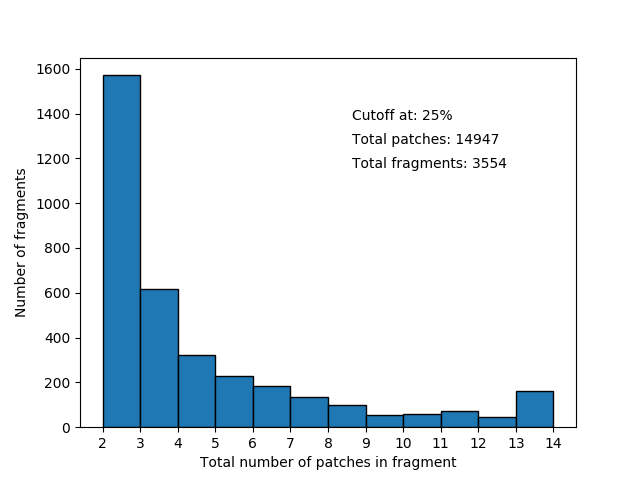
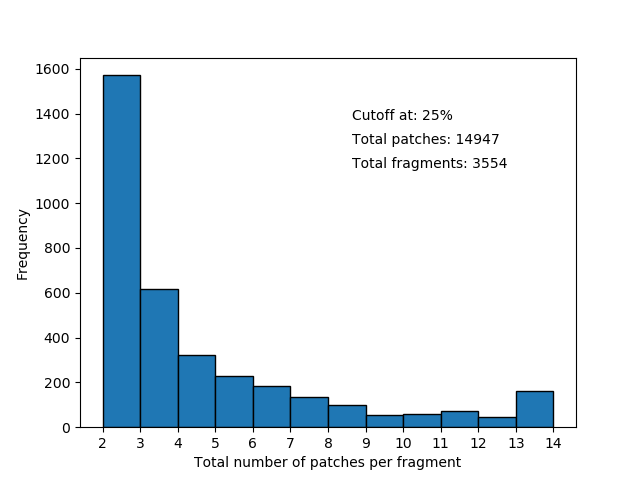
NN updated

diff --git a/Siamese_VGG16/model.py b/Siamese_VGG16/model.py
@@ -1,4 +1,4 @@
-# Building the Siamese model 
+# Building a Siamese model 
 
 from VGG16 import *
 from utils import * 
@@ -8,24 +8,30 @@ from tensorflow.keras.layers import Input
 from tensorflow.keras.layers import Lambda
 from tensorflow.keras.datasets import mnist
 
-def build_Siamese_network():
-	# configure the Sister networks
-	imgA = Input(shape= inputShape)
-	imgB = Input(shape= inputShape)
-	featureExtractor = build_VGG16_network(inputShape)
-	featsA = featureExtractor(imgA)
-	featsB = featureExtractor(imgB) 
+# Function that connects two CNNS via a ECL layer
+# which is connected to a block of dense layers 
+def build_Siamese_network(inputShape = 256):
+
+	# Configuring the inputshape of the model 
+	imgTop = Input(shape = inputShape)
+	imgBottom = Input(shape = inputShape)
+
+	# Functions returns a VGG16 model
+	CNNTop = build_VGG16_network(imgTop)
+	CNNBottom = build_VGG16_network(imgBottom) 
 
 	# Connecting the Sister networks to lambda euclidian distance layer 
-	distance = Lambda(euclidean_distance)([featsA, featsB])
+	distance = Lambda(euclidean_distance)([CNNTop, CNNBottom])
 
 	# Creating the final dense layers 
-	x = Dense(512, activation="relu")(distance)
-	x = Dense(512, activation="relu")(x)
-	outputs = Dense(1, activation="sigmoid")(x)
+	x = Dense(512, activation="relu", name = 'block6_dense1')(distance)
+	x = Dense(512, activation="relu", name = 'block6_dense2')(x)
+	outputs = Dense(1, activation="sigmoid", name = 'block6_dense3')(x)
 
 	# building the complete model 
-	model = Model(inputs=[imgA, imgB], outputs=outputs)	
+	model = Model(inputs=[CNNTop, CNNBottom], outputs=outputs)	
 
 	# Summary of the complete model 
 	model.Summary()
+
+build_VGG16_network()

diff --git a/Statistics/Histograms_and_plots_cutoffs/Statistic.py b/Statistics/Histograms_and_plots_cutoffs/Statistic.py
@@ -83,8 +83,8 @@ class statistic(object):
         axs.set_xticks(bins)
 
         # Setting the labels for the axis 
-        axs.set_xlabel('Total number of patches in fragment')
-        axs.set_ylabel('Number of fragments')
+        axs.set_xlabel('Total number of patches per fragment')
+        axs.set_ylabel('Frequency')
 
         # Adding texts to the figure 
         plt.figtext(0.55, 0.75, "Cutoff at: " + cutoff + '%')
@@ -162,8 +162,8 @@ class statistic(object):
         axs.grid()
 
         # Setting the labels for the axis 
-        axs.set_xlabel('Percentage of fragment in image')
-        axs.set_ylabel('Occurence')
+        axs.set_xlabel('Percentage of non zero value pixels')
+        axs.set_ylabel('Frequency')
         axs.legend()
 
         # Adding texts to the figure 

diff --git a/Siamese_VGG16/utils.py b/Siamese_VGG16/utils.py
@@ -1,5 +1,5 @@
-# helper functions, euclidian distance function from Keras does not work 
-# Code is lend from https://www.pyimagesearch.com/2020/11/30/siamese-networks-with-keras-tensorflow-and-deep-learning/
+# helper functions, euclidian distance function from Keras does not work properly 
+# Euclidian distance code is used from https://www.pyimagesearch.com/2020/11/30/siamese-networks-with-keras-tensorflow-and-deep-learning/
 
 import tensorflow.keras.backend as K
 import matplotlib.pyplot as plt

diff --git a/Statistics/Histograms_and_plots_cutoffs/main.py b/Statistics/Histograms_and_plots_cutoffs/main.py
@@ -6,7 +6,7 @@ from Statistic import statistic
 def main():
 
     # Defining the path to the lists 
-    path = '/Users/stephannijdam/Desktop/DSS/Statistics/Lists_for_all_cutoffs/Lists'
+    path = '/home/s3690970/Desktop/Bachelor_Project/DSS/Statistics/Lists_for_all_cutoffs/Lists/'
 
     # Initializing statistics object
     stc = statistic(path)
